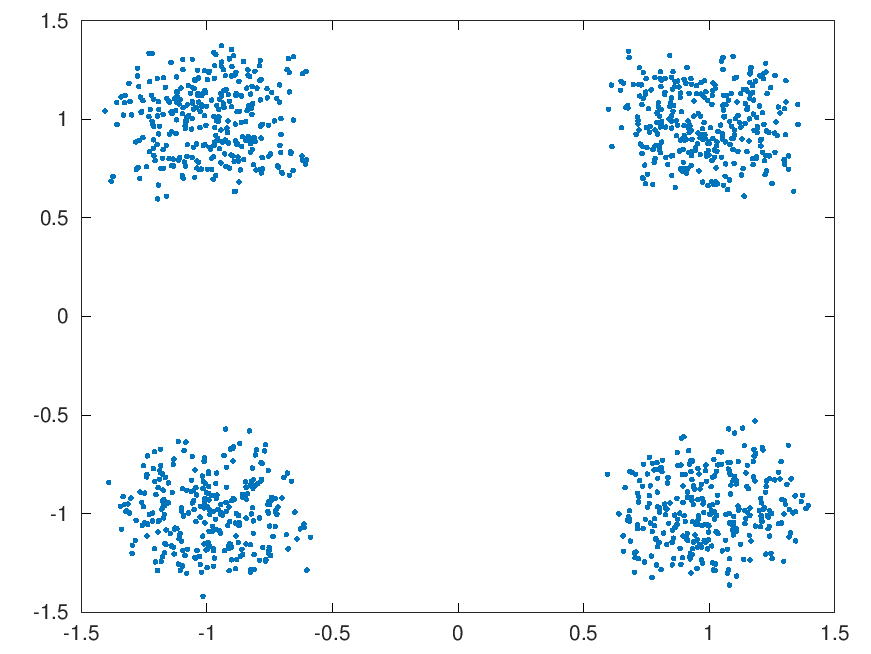
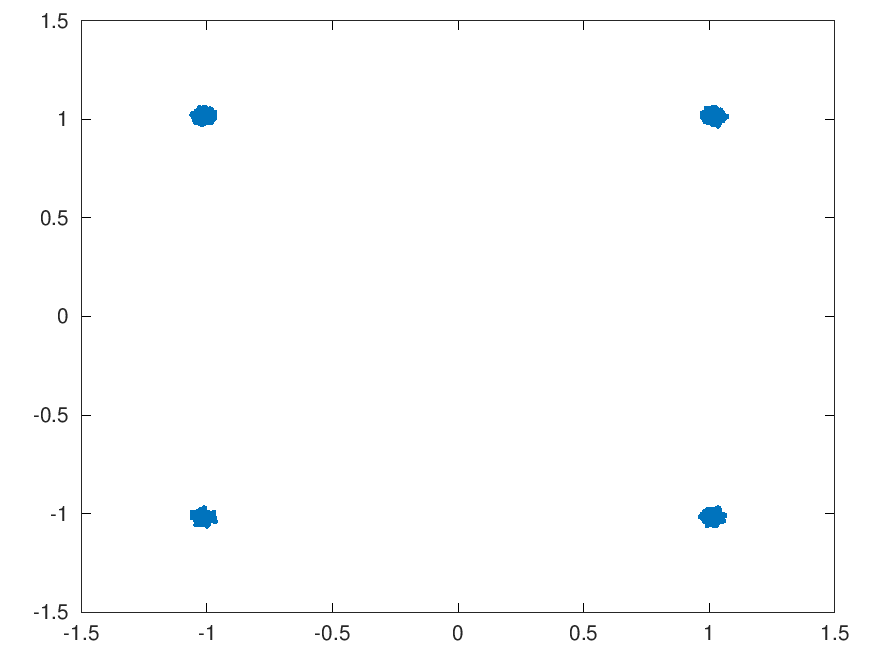
Play with lab rx

diff --git a/lab/qpsk-demo.c b/lab/qpsk-demo.c
@@ -42,7 +42,7 @@ static FILE *fout;
 static complex float tx_filter[NTAPS]; // FIR memory
 static complex float rx_filter[NTAPS];
 
-static complex float recvBlock[RATE * 32]; // receive 8x sample buffer
+static complex float recvBlock[RATE * 32]; // receive 32 symbol 8x sample buffer
 
 static complex float m_rxPhase; // receive oscillator phase increment
 static complex float m_txPhase; // transmit oscillator phase increment
@@ -82,7 +82,7 @@ static void qpskDemodulate(complex float symbol, int outputBits[])
 static void processSymbols(complex float csamples[], int diBits[])
 {
     /*
-     * Left shift 31 old symbols in buffer
+     * Left shift 31 old symbols (248 complex samples) in buffer
      */
     for (int i = 0; i < (RATE * 31); i++)
     {
@@ -105,15 +105,20 @@ static void processSymbols(complex float csamples[], int diBits[])
     m_rxPhase /= cabsf(m_rxPhase); // normalize oscillator as magnitude can drift
 
     /*
-     * Baseband Root Cosine low-pass Filter new samples
+     * Baseband Root Cosine low-pass Filter 8x new complex samples
      */
     rrc_fir(rx_filter, &recvBlock[(RATE * 31)], RATE);
 
     complex float decisionSample;
-    int center = 20;
+
+    int center = 20; // 2 symbols + 4 samples
     int tau = 0;
 
-    for (int i = (RATE * RATE); i < (RATE * 31); i += RATE)
+    /*
+     * Start the window process after the 8th symbol starting point
+     * end before the 32nd symbol point.
+     */
+    for (int i = (RATE * 7); i < (RATE * 31); i += RATE)
     {
         complex float m_s = recvBlock[center - 1]; // Middle sample
         complex float l_s = recvBlock[center + 3]; // Late sample
